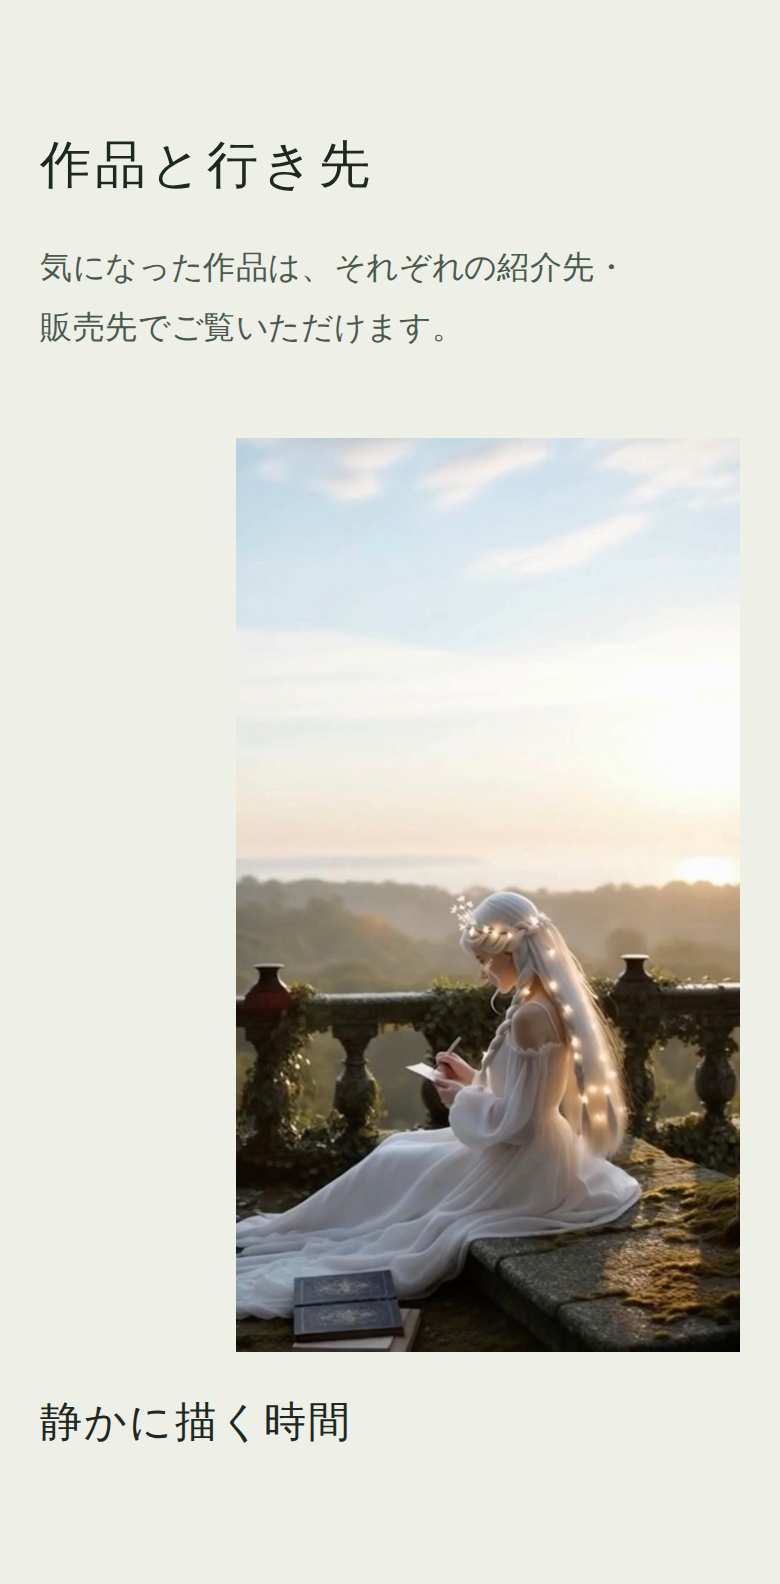
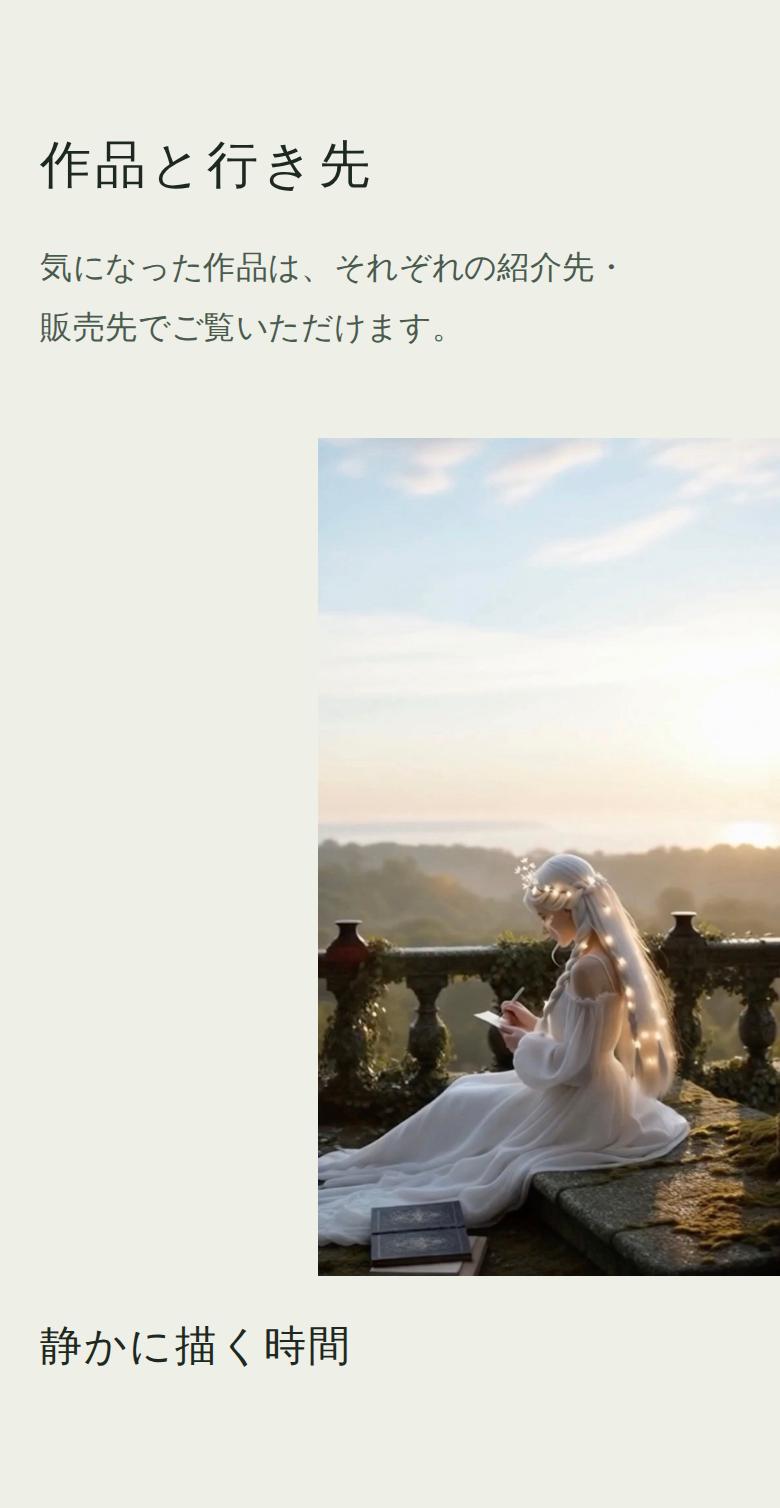
Shift mobile work image further right to the screen edge
Claude-Session: https://claude.ai/code/session_017bcMSHxEKTFhhpkpED1EZG

diff --git a/css/style.css b/css/style.css
@@ -509,12 +509,14 @@ main:focus { outline: none; }
 @media (max-width: 767px) {
   .work__media img,
   .work__media video {
-    width: 72%;
+    width: 66%;
+    max-width: none;
     max-height: none;
-    margin-inline: auto 0;
+    /* 画面の端まで寄せる */
+    margin-inline: auto calc(-1 * var(--gutter));
   }
   .work:nth-child(even) .work__media img,
-  .work:nth-child(even) .work__media video { margin-inline: 0 auto; }
+  .work:nth-child(even) .work__media video { margin-inline: calc(-1 * var(--gutter)) auto; }
 }
 .work__title {
   font-family: var(--serif);
